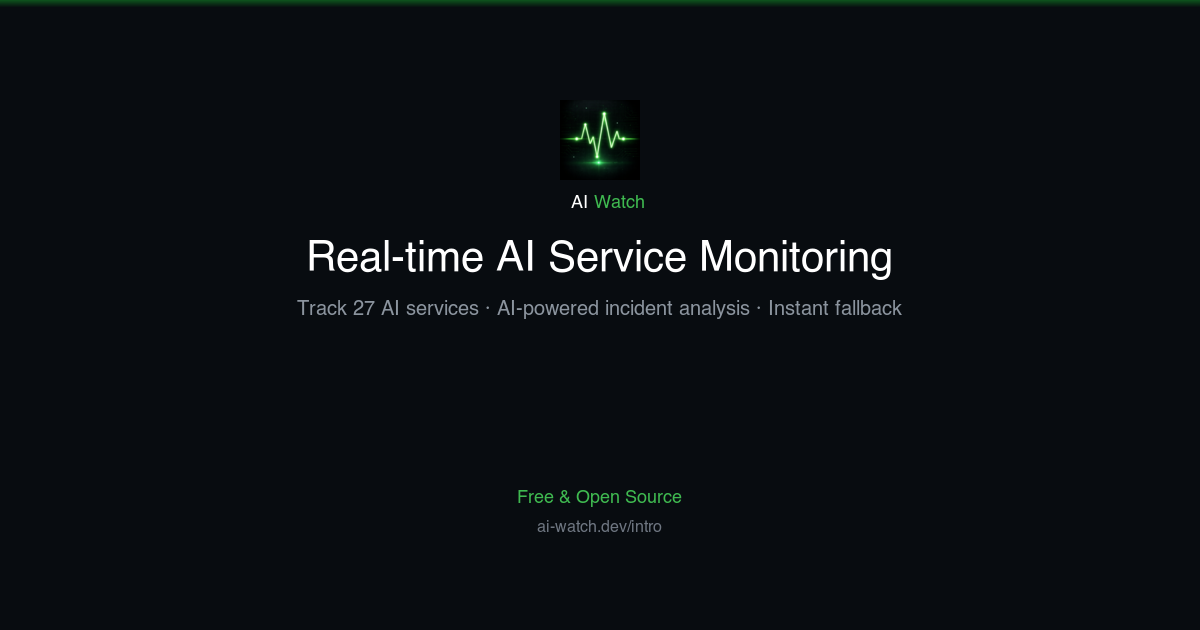
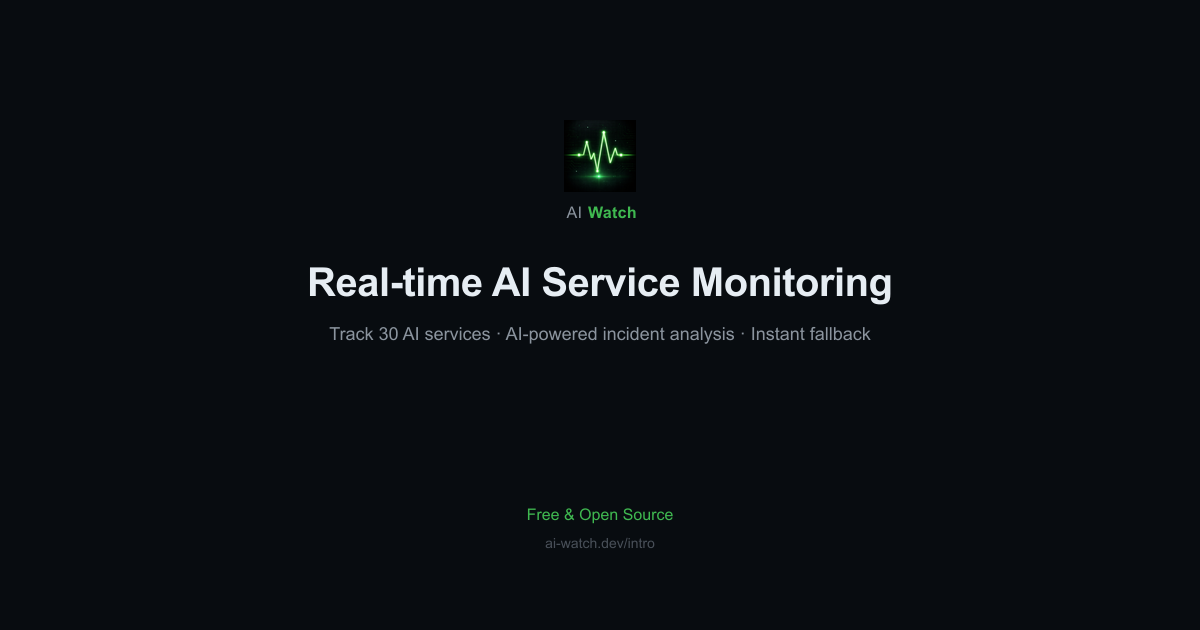
chore: regenerate OG images (27→30 services) + add generation script
- Add scripts/generate-og-intro.mjs using icon-192.png + sharp
- Update public/og-intro.png and docs/social-preview.png
- Update project structure docs (CLAUDE.md, README, CONTRIBUTING)
- Fix usePolling.js comment (27→30 services)

Changed region(s): [[0.2467, 0.181, 0.7708, 0.5429], [0.0, 0.0, 1.0, 0.0302], [0.4317, 0.7841, 0.5858, 0.8746]]

diff --git a/src/hooks/usePolling.js b/src/hooks/usePolling.js
@@ -604,7 +604,7 @@ function usePollingInternal() {
 
     try {
       // Initial + refresh: try cached endpoint first (~1s), fall back to full fetch
-      // Silent polls: full endpoint for fresh data from all 27 services
+      // Silent polls: full endpoint for fresh data from all 30 services
       let res
       if (isInitial || isRefresh) {
         try {

diff --git a/CLAUDE.md b/CLAUDE.md
@@ -171,16 +171,15 @@ When adding a new monitored service, update ALL of the following:
 26. `index.md` — top-level index page
 
 #### Assets (after deploy)
-27. `public/og-intro.png` — regenerate (service count baked in image)
-28. `docs/social-preview.png` — regenerate from og-intro.png
-29. `docs/screenshot.png` — recapture desktop dashboard
-30. `docs/screenshot-mobile.png` — recapture mobile dashboard
-31. GitHub Settings → Social preview — re-upload
+27. `scripts/generate-og-intro.mjs` — update `SERVICE_COUNT`, run `node scripts/generate-og-intro.mjs` (generates both `public/og-intro.png` + `docs/social-preview.png`)
+28. `docs/screenshot.png` — recapture desktop dashboard
+29. `docs/screenshot-mobile.png` — recapture mobile dashboard
+30. GitHub Settings → Social preview — re-upload
 
 #### Deployment
-32. `npx wrangler deploy --config worker/wrangler.toml --dry-run` — build check
-33. `npm run deploy:worker` — deploy after user approval
-34. `git push origin main` — Vercel auto-deploy for frontend
+31. `npx wrangler deploy --config worker/wrangler.toml --dry-run` — build check
+32. `npm run deploy:worker` — deploy after user approval
+33. `git push origin main` — Vercel auto-deploy for frontend
 
 ## Architecture
 
@@ -244,6 +243,8 @@ src/
   locales/      # ko.js, en.js — flat key→string maps (default exports)
 docs/
   aiwatch-landing.html # Landing page design draft (not deployed)
+scripts/
+  generate-og-intro.mjs # OG intro image generator (uses icon-192.png + sharp)
 worker/
   src/
     index.ts    # Worker entry: CORS, KV, routing, /api/alert, /badge, /api/v1, Cron scheduled handler

diff --git a/.github/CONTRIBUTING.md b/.github/CONTRIBUTING.md
@@ -57,6 +57,7 @@ All 92 tests must pass before submitting a PR.
 src/           # React frontend (pages, components, hooks, utils, locales)
 api/           # Vercel Edge Functions — "Is X Down?" SSR pages
 public/        # Static assets (manifest.json, sw.js, icons)
+scripts/       # Build/asset scripts (OG image generator)
 worker/        # Cloudflare Workers backend (parsers, types, utils, vitals)
 tests/         # Playwright E2E tests
 docs/          # Design mockups

diff --git a/README.ko.md b/README.ko.md
@@ -294,6 +294,8 @@ public/
   sw.js                # Service Worker (stale-while-revalidate)
   icon-192.png         # PWA 아이콘 192x192
   icon-512.png         # PWA 아이콘 512x512
+scripts/
+  generate-og-intro.mjs  # OG 인트로 이미지 생성기 (node scripts/generate-og-intro.mjs)
 worker/
   src/
     index.ts     # Worker 진입점: CORS, KV, 알림, 라우팅, /api/alert, /badge, /api/v1

diff --git a/README.md b/README.md
@@ -295,6 +295,8 @@ public/
   sw.js                # Service Worker (stale-while-revalidate)
   icon-192.png         # PWA icon 192x192
   icon-512.png         # PWA icon 512x512
+scripts/
+  generate-og-intro.mjs  # OG intro image generator (node scripts/generate-og-intro.mjs)
 worker/
   src/
     index.ts     # Worker entry: CORS, KV cache, alerts, routing, /api/alert, /badge, /api/v1
